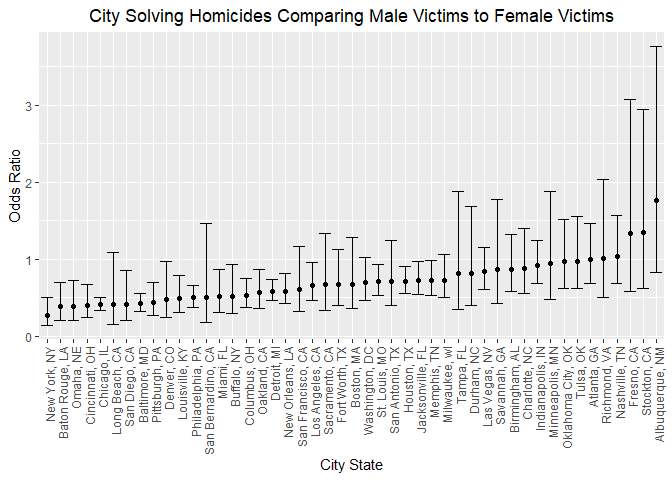
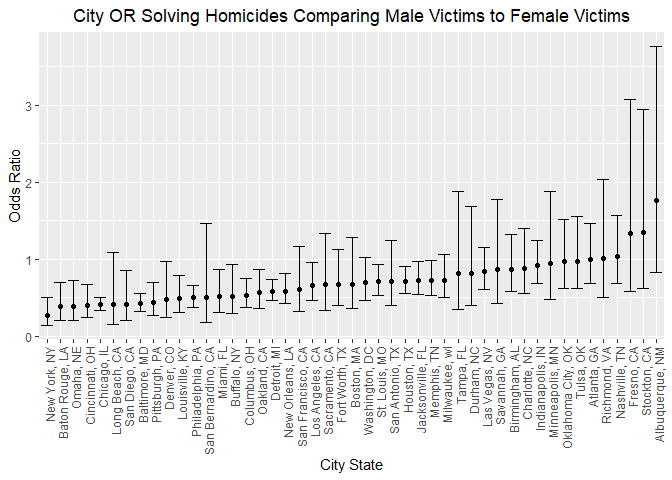
update --add brief comment of plot

Changed region(s): [[0.0938, 0.0, 0.9375, 0.0625]]

diff --git a/p8105_hw6_yy3307.md b/p8105_hw6_yy3307.md
@@ -96,7 +96,7 @@ city_plot =
   geom_point() +
   geom_errorbar(aes(ymin = CI_lower, ymax = CI_upper)) +
   labs(
-    title = "City Solving Homicides Comparing Male Victims to Female Victims",
+    title = "City OR Solving Homicides Comparing Male Victims to Female Victims",
     x = "City State",
     y = "Odds Ratio"
   ) +
@@ -109,5 +109,12 @@ city_plot
 ```
 
 ![](p8105_hw6_yy3307_files/figure-gfm/unnamed-chunk-4-1.png)<!-- -->
+
+From the plot we can analyze that the range for City OR Solving
+Homicides Comparing Male Victims to Female Victims is from about 0.25 to
+1.75. New York, NY has the lowest odds ratio and Albuquerque, NM has the
+highest odds ratio. We can also tell that the confidence interval for
+each city does not follows a specific increasing trend, some cities may
+have low OR with long CI and some may have high OR with shortter CI.
 
 ## Problem 3
